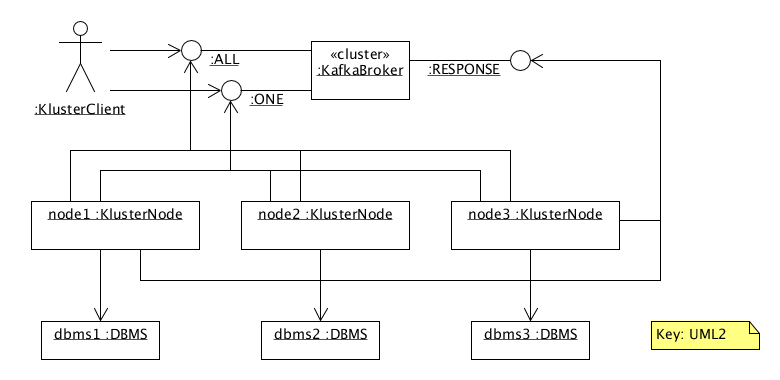
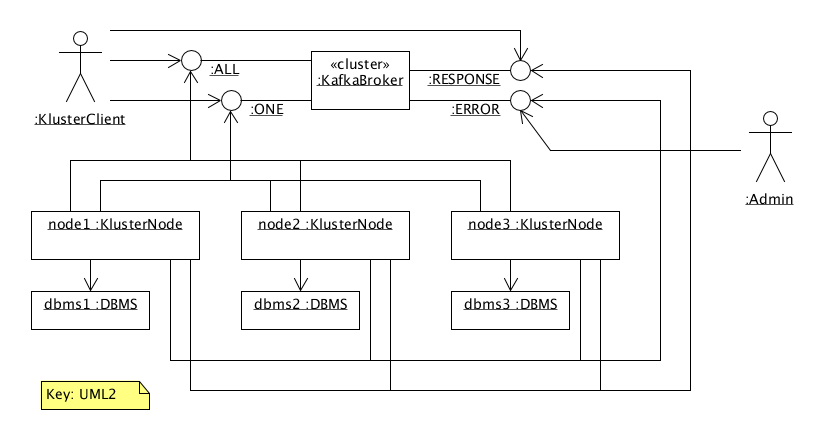
updated design conform code

diff --git a/README.md b/README.md
@@ -92,6 +92,12 @@ referenceId: the messageId of the corresponding request
 result: JSON string containing the result of the operartion, in case of a query quite large for contains the entire result set
 ```
 
+### Errors
+
+Client error: response on topic RESPONSE conatins an error message, eg. duplicate key insertion.
+Server error: node produces an error message on the ERROR topic, eg. cannot connect to database. Usually the node has become
+out of sunc of corrupt and manual intervention by administrator is needed 
+
 ## Quickstart
 
  1. Compile the software and start a cluster. This is done using a Makefile and docker-compose.  
